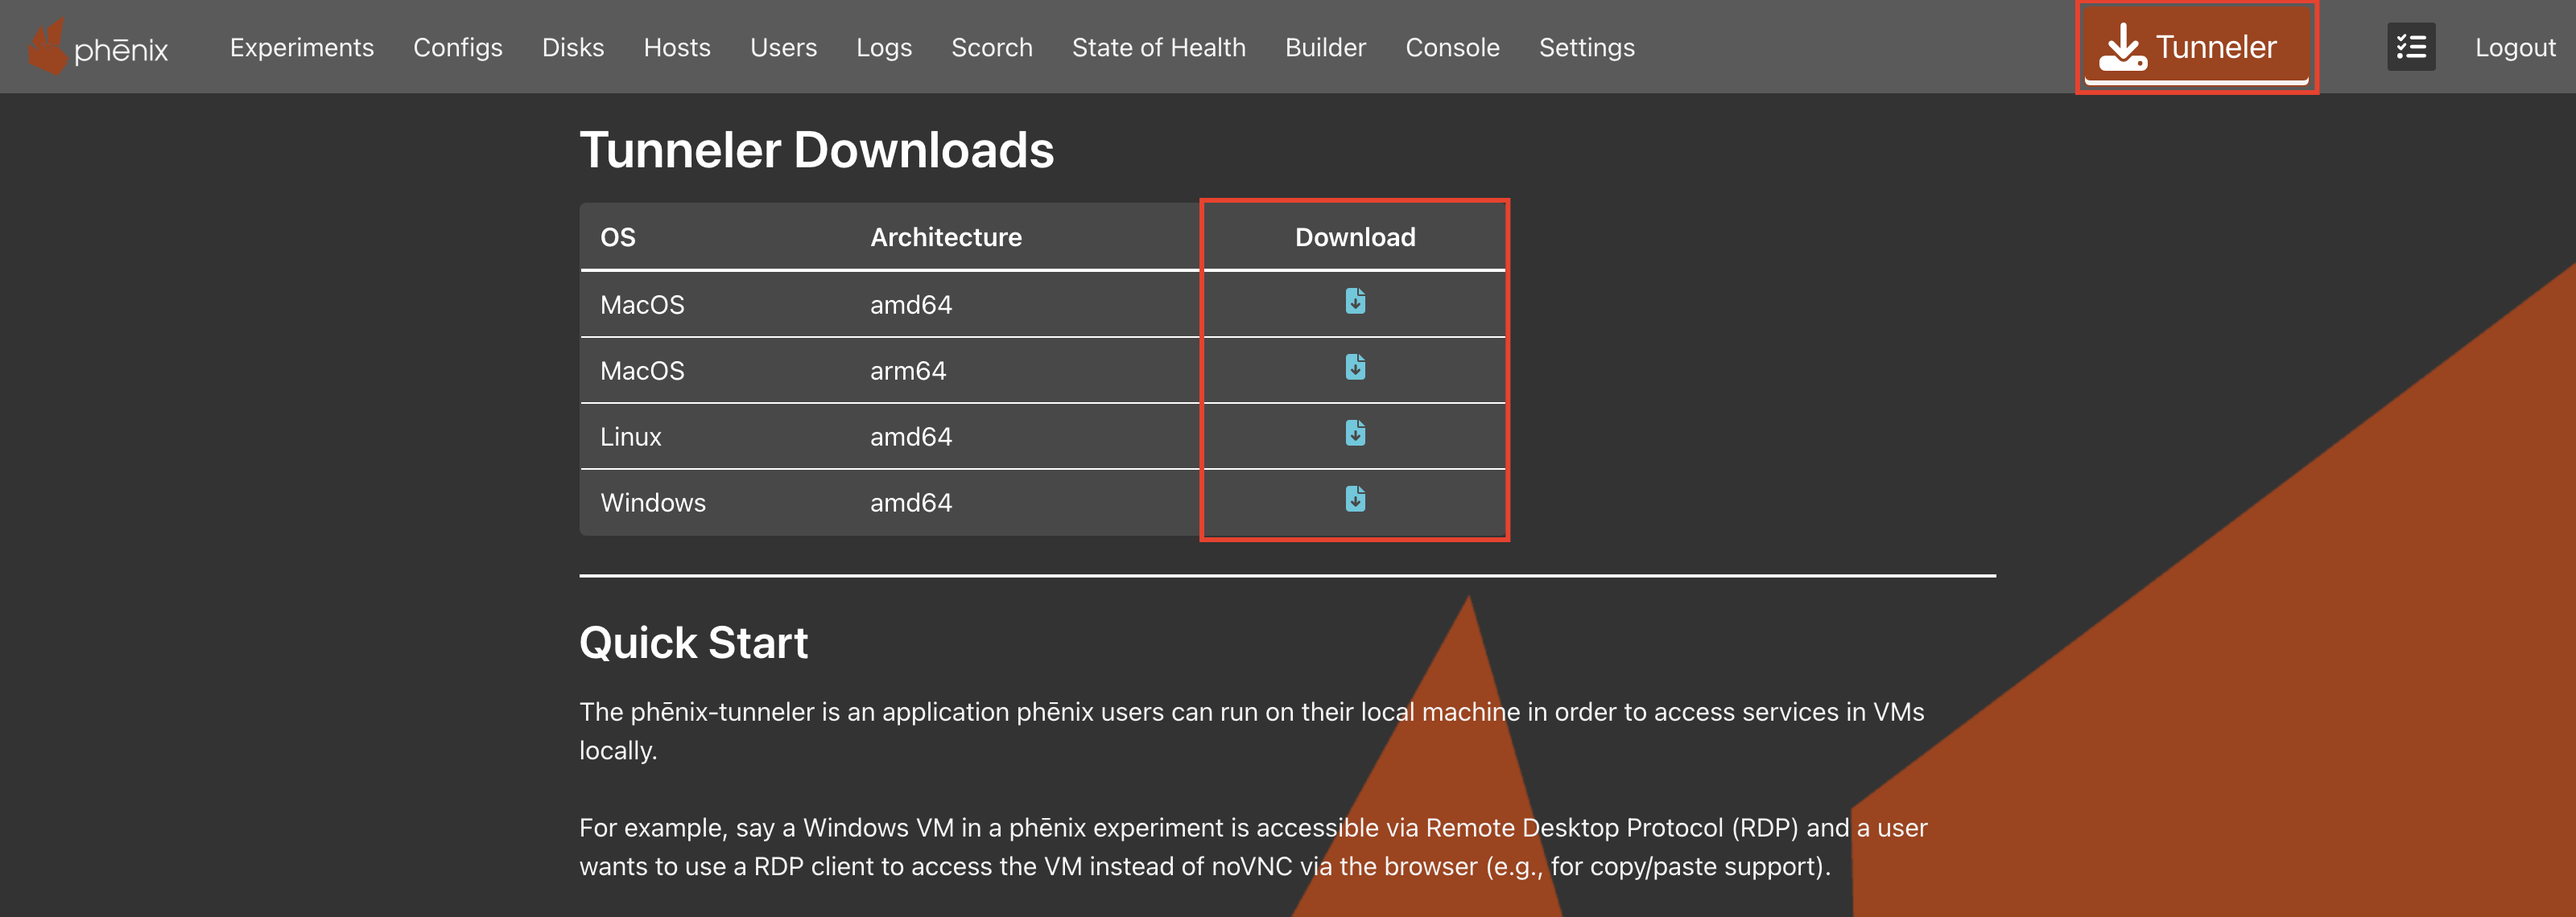
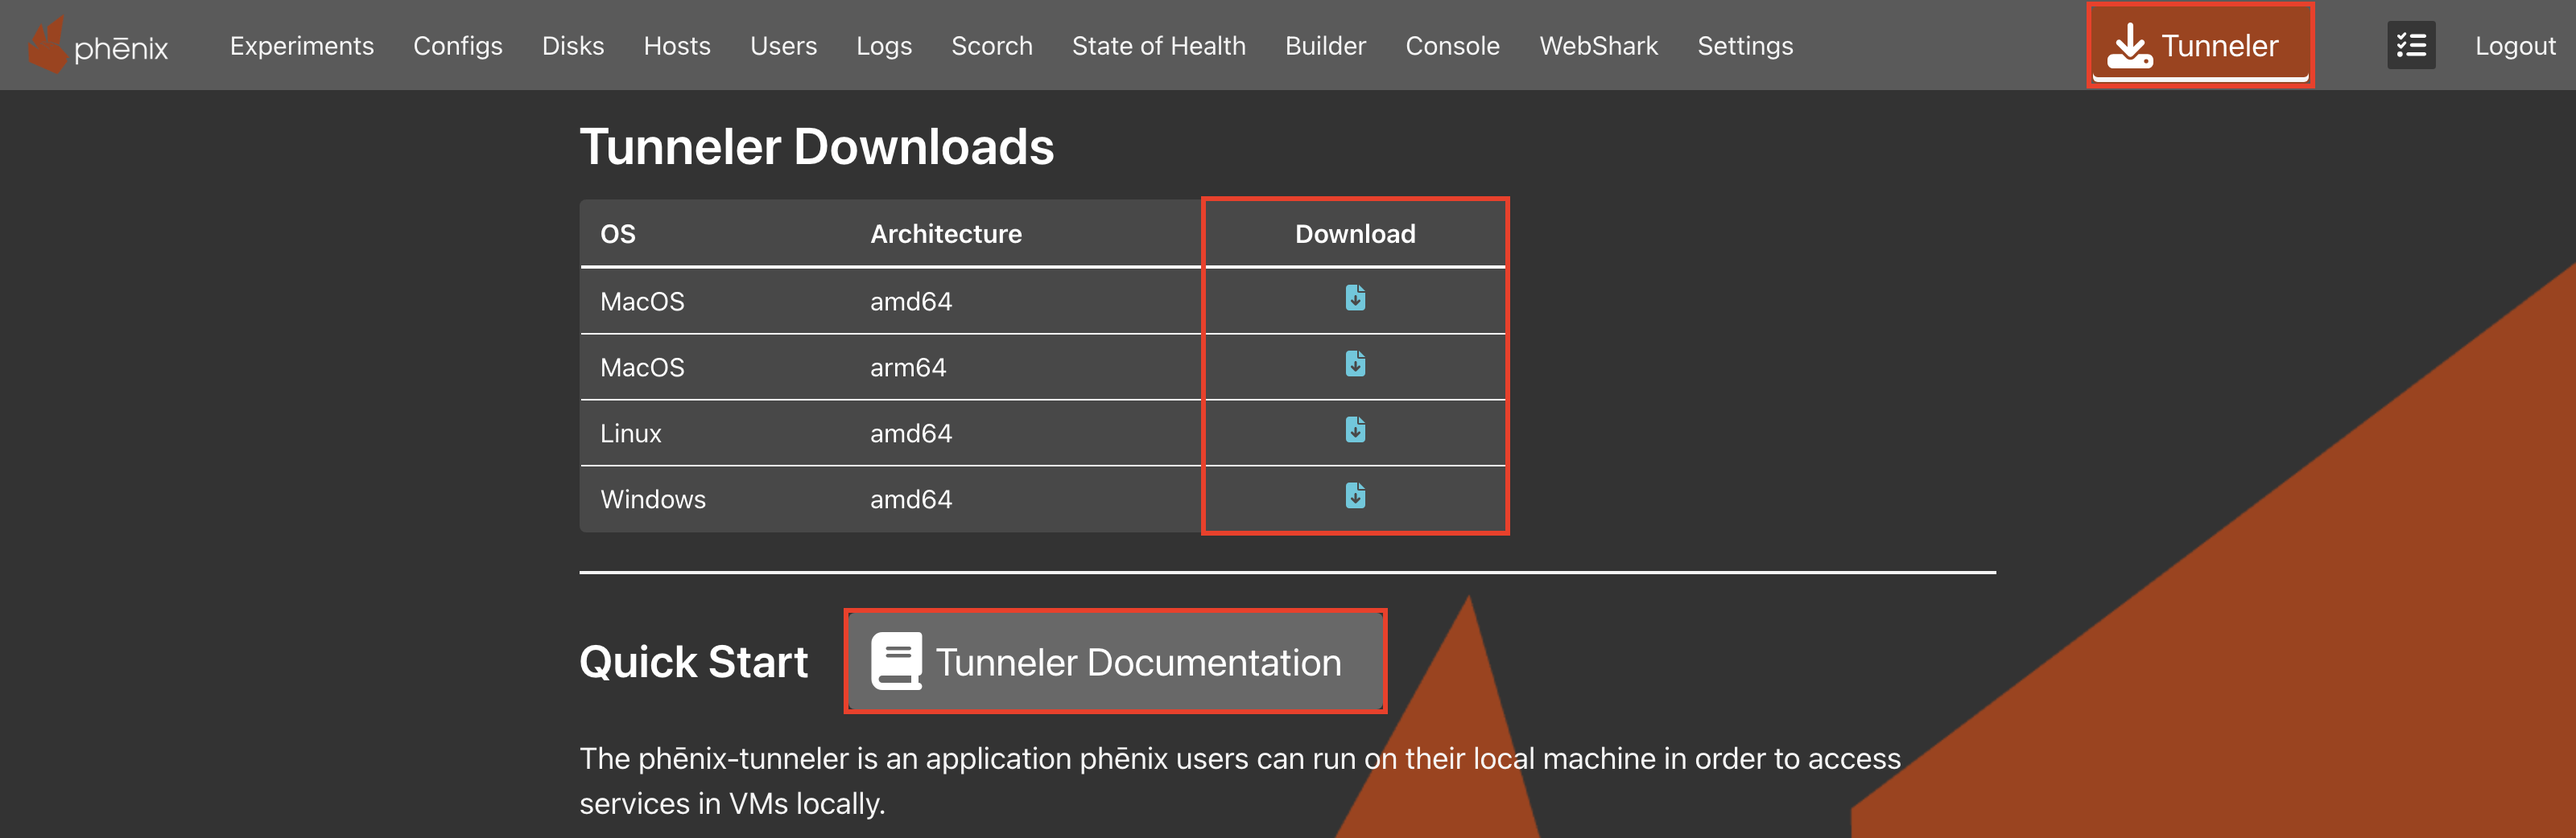
feat(ui): add a Tunneler Documentation button to the Tunneler page
The Tunneler page's Quick Start heading now has a large Tunneler Documentation button that opens the tunneler docs, its text is 2pt larger, and the docs screenshot of the page is retaken to match.

diff --git a/src/js/src/views/Tunneler.vue b/src/js/src/views/Tunneler.vue
@@ -36,7 +36,20 @@
     </section>
     <hr />
     <div id="quick-start">
-      <h2>Quick Start</h2>
+      <div class="quick-start-head">
+        <h2>Quick Start</h2>
+        <b-button
+          tag="a"
+          :href="docsPage('tunneler')"
+          target="_blank"
+          rel="noopener"
+          type="is-light"
+          size="is-large"
+          icon-left="book"
+          class="docs-button"
+          >Tunneler Documentation</b-button
+        >
+      </div>
       <p>
         The phēnix-tunneler is an application phēnix users can run on their
         local machine in order to access services in VMs locally.
@@ -87,15 +100,6 @@
         Once a local port is activated, either automatically or manually, users
         can connect to the local port with the appropriate application and
         traffic will be forwarded through the phēnix UI server to the VM.
-
-        <br />
-        <br />
-
-        See the
-        <a :href="docsPage('tunneler')" target="_blank" rel="noopener"
-          >Tunneler documentation</a
-        >
-        for more.
       </p>
     </div>
   </div>
@@ -170,6 +174,23 @@
     max-width: 36rem;
   }
 
+  .quick-start-head {
+    display: flex;
+    flex-wrap: wrap;
+    align-items: center;
+    gap: 0.75rem 1.5rem;
+    margin-bottom: 1em;
+  }
+
+  .quick-start-head h2 {
+    margin: 0;
+  }
+
+  #quick-start p {
+    font-size: calc(1em + 2pt);
+  }
+
+  /* Keeps the light red on black (8.5:1); the global $code is dark red. */
   code {
     background-color: black;
     color: #ff7b95;

diff --git a/src/js/test/tunnelerPage.test.js b/src/js/test/tunnelerPage.test.js
@@ -3,6 +3,7 @@
 import fc from 'fast-check';
 import { afterEach, describe, expect, it, vi } from 'vitest';
 
+import { docsPage } from '@/utils/docs.js';
 import Tunneler from '@/views/Tunneler.vue';
 import { never } from './helpers/async.js';
 import { mountPage, tableRows, textOf } from './helpers/mount.js';
@@ -139,6 +140,17 @@ describe('the Tunneler page', () => {
         Node.DOCUMENT_POSITION_FOLLOWING,
     ).toBeTruthy();
     expect(textOf(page)).toContain('downloaded via the table above');
+  });
+
+  it('links the docs from a button beside the quick start heading', async () => {
+    const page = await open(json({ files: [] }));
+    const link = page.find('.quick-start-head a');
+    expect(textOf(link)).toBe('Tunneler Documentation');
+    expect(link.attributes()).toMatchObject({
+      href: docsPage('tunneler'),
+      target: '_blank',
+      rel: 'noopener',
+    });
   });
 
   it('says it is loading until the list arrives', async () => {

diff --git a/src/js/src/components/AppHeader.vue b/src/js/src/components/AppHeader.vue
@@ -255,6 +255,11 @@ what their role allows.
     background-color: #9a4420;
   }
 
+  /* 95% of Bulma's is-medium (1.25rem); padding and height are in em */
+  .tunneler-button.button.is-medium {
+    font-size: 1.1875rem;
+  }
+
   .tunneler-button.router-link-exact-active {
     box-shadow: inset 0 -3px 0 whitesmoke;
   }

diff --git a/docs/content/tunneler.md b/docs/content/tunneler.md
@@ -16,13 +16,13 @@ UI.
 Click the `Tunneler` button near the right-hand end of the banner at the top
 of the phēnix UI.
 
-![The Tunneler page, opened from the Tunneler button in the banner, with the Tunneler Downloads table above the Quick Start](images/tunneler_page.png)
+![The Tunneler page, opened from the Tunneler button in the banner, with the Tunneler Downloads table above the Quick Start and its Tunneler Documentation button](images/tunneler_page.png)
 
 The page starts with a `Tunneler Downloads` table of the `phenix-tunneler`
 builds installed on the phēnix server, with an `OS` and an `Architecture`
 column and a `Download` link for each build. Below that is a `Quick Start`
-summary of the steps described below, ending in a `Tunneler documentation`
-link back to this page.
+summary of the steps described below, with a `Tunneler Documentation` button
+beside its heading that links back to this page.
 
 phēnix ships these builds:
 
